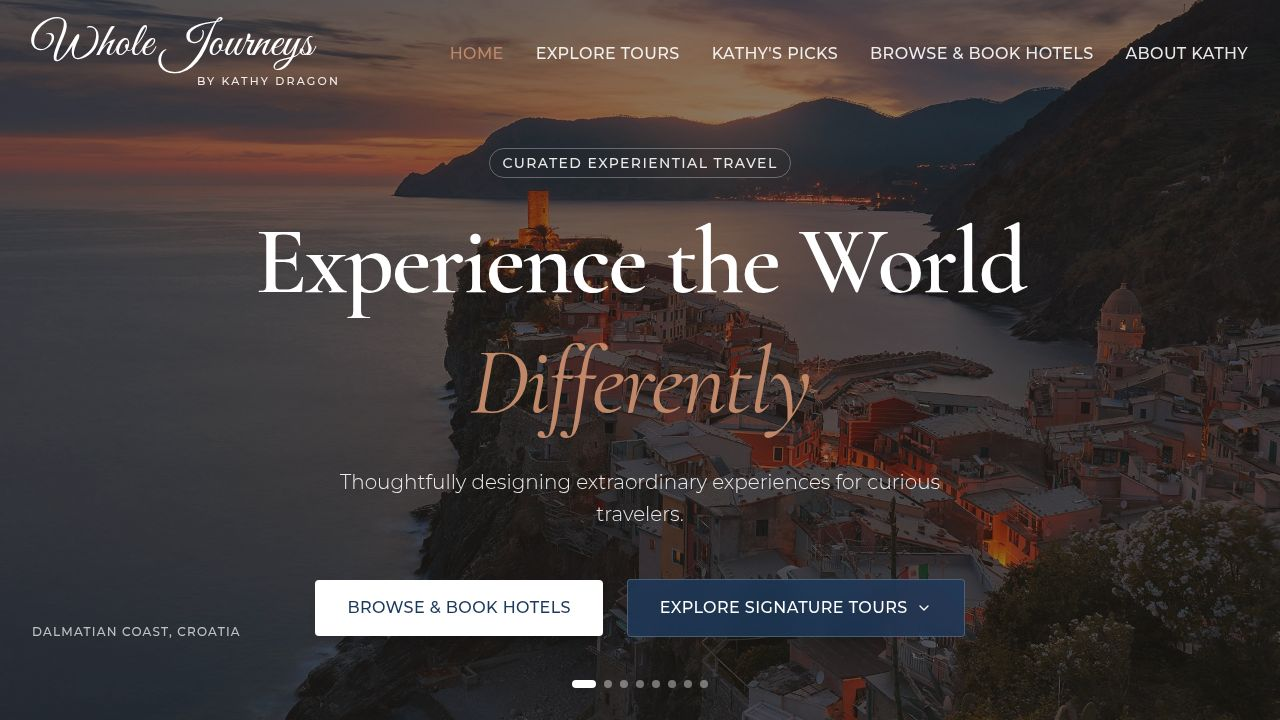
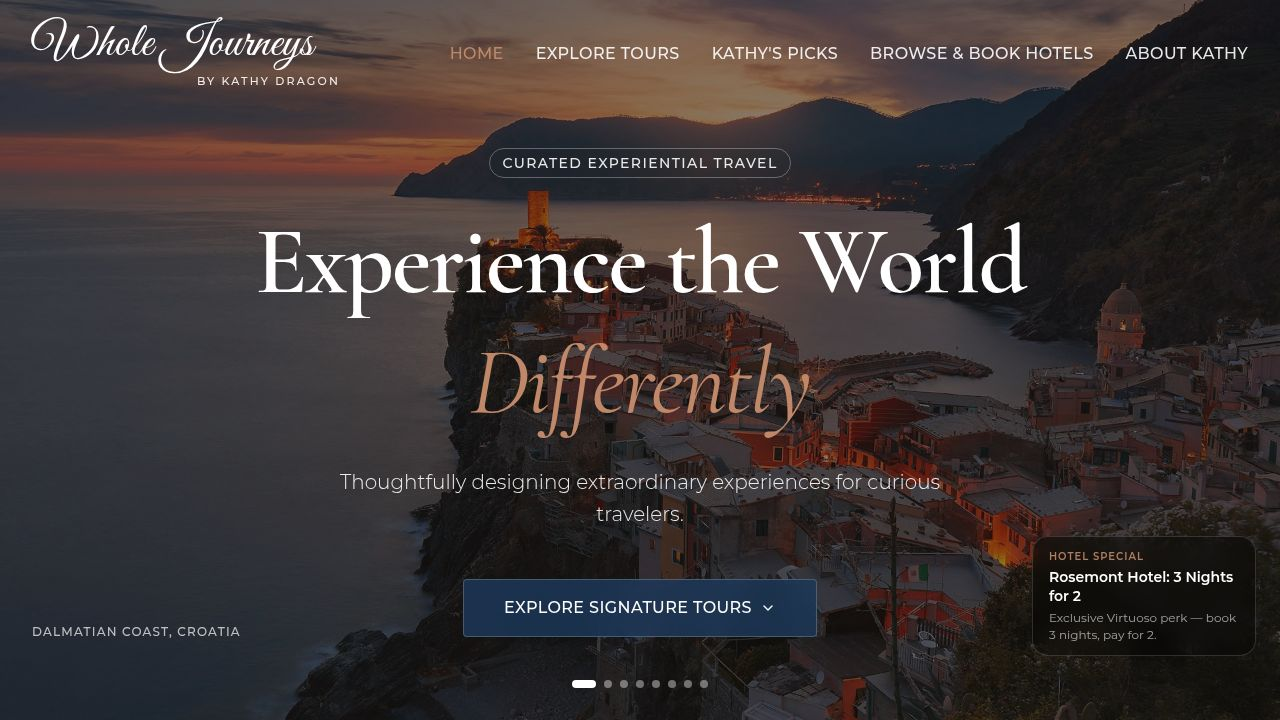
Improve website SEO and fix tour modal bugs
Implement comprehensive SEO across all pages using `react-helmet-async`, add a reusable SEO component, and fix a crash in `buildSpecialUrl` when `referralTag` is undefined.

Replit-Commit-Author: Agent
Replit-Commit-Session-Id: e470989c-778b-43b7-8b98-f9c640c0c7eb
Replit-Commit-Checkpoint-Type: full_checkpoint
Replit-Commit-Event-Id: 0cb1f29c-31b3-421b-ba65-038d27846d03
Replit-Commit-Screenshot-Url: https://storage.googleapis.com/screenshot-production-us-central1/654e29e9-1e29-43ab-9f95-6739177fc84f/e470989c-778b-43b7-8b98-f9c640c0c7eb/o0yCR8q
Replit-Helium-Checkpoint-Created: true

Changed region(s): [[0.2188, 0.7944, 0.7812, 0.8861], [0.7812, 0.7333, 0.9688, 0.9167]]

diff --git a/artifacts/whole-journeys/src/components/SEO.tsx b/artifacts/whole-journeys/src/components/SEO.tsx
@@ -1,0 +1,43 @@
+import { Helmet } from "react-helmet-async";
+
+const SITE_NAME = "Whole Journeys by Kathy Dragon";
+const SITE_URL = "https://new.wholejourneys.com";
+const DEFAULT_IMAGE = "https://images.unsplash.com/photo-1464822759023-fed622ff2c3b?w=1200&q=80";
+
+interface SEOProps {
+  title?: string;
+  description?: string;
+  image?: string;
+  path?: string;
+  noIndex?: boolean;
+}
+
+export default function SEO({ title, description, image, path = "", noIndex = false }: SEOProps) {
+  const pageTitle = title ? `${title} | ${SITE_NAME}` : SITE_NAME;
+  const pageDesc = description ?? "Thoughtfully designed extraordinary journeys for curious travelers. Signature walking tours in Europe and beyond, personally curated by Kathy Dragon.";
+  const pageImage = image || DEFAULT_IMAGE;
+  const canonical = `${SITE_URL}${path}`;
+
+  return (
+    <Helmet>
+      <title>{pageTitle}</title>
+      <meta name="description" content={pageDesc} />
+      {noIndex && <meta name="robots" content="noindex,nofollow" />}
+      <link rel="canonical" href={canonical} />
+
+      {/* Open Graph */}
+      <meta property="og:type" content="website" />
+      <meta property="og:site_name" content={SITE_NAME} />
+      <meta property="og:title" content={pageTitle} />
+      <meta property="og:description" content={pageDesc} />
+      <meta property="og:image" content={pageImage} />
+      <meta property="og:url" content={canonical} />
+
+      {/* Twitter */}
+      <meta name="twitter:card" content="summary_large_image" />
+      <meta name="twitter:title" content={pageTitle} />
+      <meta name="twitter:description" content={pageDesc} />
+      <meta name="twitter:image" content={pageImage} />
+    </Helmet>
+  );
+}

diff --git a/artifacts/whole-journeys/src/components/TourModal.tsx b/artifacts/whole-journeys/src/components/TourModal.tsx
@@ -1,5 +1,6 @@
 import { useState, useEffect, useCallback } from "react";
 import * as Dialog from "@radix-ui/react-dialog";
+import { Helmet } from "react-helmet-async";
 import { X, MapPin, Globe, Check, ExternalLink, ChevronLeft, ChevronRight } from "lucide-react";
 import { type Tour } from "@/hooks/use-tours";
 import { CATEGORY_COLORS } from "./TourCard";
@@ -106,8 +107,15 @@ export default function TourModal({ tour, isOpen, onClose }: TourModalProps) {
   const allImages = [tour.imageUrl, ...(tour.galleryImages ?? [])].filter(Boolean);
 
   return (
-    <Dialog.Root open={isOpen} onOpenChange={(open) => !open && onClose()}>
-      <Dialog.Portal>
+    <>
+      {isOpen && (
+        <Helmet>
+          <title>{tour.name} | Whole Journeys by Kathy Dragon</title>
+          <meta name="description" content={tour.description ?? `Explore the ${tour.name} journey with Whole Journeys.`} />
+        </Helmet>
+      )}
+      <Dialog.Root open={isOpen} onOpenChange={(open) => !open && onClose()}>
+        <Dialog.Portal>
         <Dialog.Overlay className="fixed inset-0 bg-black/60 backdrop-blur-sm z-[100] data-[state=open]:animate-in data-[state=closed]:animate-out data-[state=closed]:fade-out-0 data-[state=open]:fade-in-0" />
         <Dialog.Content className="fixed left-[50%] top-[50%] z-[110] grid w-full max-w-4xl translate-x-[-50%] translate-y-[-50%] gap-4 border-none bg-background shadow-2xl duration-200 data-[state=open]:animate-in data-[state=closed]:animate-out data-[state=closed]:fade-out-0 data-[state=open]:fade-in-0 data-[state=closed]:zoom-out-95 data-[state=open]:zoom-in-95 data-[state=closed]:slide-out-to-left-1/2 data-[state=closed]:slide-out-to-top-[48%] data-[state=open]:slide-in-from-left-1/2 data-[state=open]:slide-in-from-top-[48%] sm:rounded-2xl overflow-hidden max-h-[90vh] flex flex-col">
 
@@ -213,6 +221,7 @@ export default function TourModal({ tour, isOpen, onClose }: TourModalProps) {
           </div>
         </Dialog.Content>
       </Dialog.Portal>
-    </Dialog.Root>
+      </Dialog.Root>
+    </>
   );
 }

diff --git a/artifacts/whole-journeys/src/App.tsx b/artifacts/whole-journeys/src/App.tsx
@@ -1,5 +1,6 @@
 import { Switch, Route, Router as WouterRouter } from "wouter";
 import { QueryClient, QueryClientProvider } from "@tanstack/react-query";
+import { HelmetProvider } from "react-helmet-async";
 import Home from "./pages/Home";
 import Tours from "./pages/Tours";
 import About from "./pages/About";
@@ -37,11 +38,13 @@ function Router() {
 
 function App() {
   return (
-    <QueryClientProvider client={queryClient}>
-      <WouterRouter base={import.meta.env.BASE_URL.replace(/\/$/, "")}>
-        <Router />
-      </WouterRouter>
-    </QueryClientProvider>
+    <HelmetProvider>
+      <QueryClientProvider client={queryClient}>
+        <WouterRouter base={import.meta.env.BASE_URL.replace(/\/$/, "")}>
+          <Router />
+        </WouterRouter>
+      </QueryClientProvider>
+    </HelmetProvider>
   );
 }
 

diff --git a/artifacts/whole-journeys/index.html b/artifacts/whole-journeys/index.html
@@ -3,7 +3,14 @@
   <head>
     <meta charset="UTF-8" />
     <meta name="viewport" content="width=device-width, initial-scale=1.0, maximum-scale=1" />
-    <title>Whole Journeys</title>
+    <title>Whole Journeys by Kathy Dragon | Curated Experiential Travel</title>
+    <meta name="description" content="Thoughtfully designed extraordinary journeys for curious travelers. Explore signature walking tours in Europe and beyond, personally curated by Kathy Dragon." />
+    <meta property="og:type" content="website" />
+    <meta property="og:site_name" content="Whole Journeys by Kathy Dragon" />
+    <meta property="og:title" content="Whole Journeys by Kathy Dragon | Curated Experiential Travel" />
+    <meta property="og:description" content="Thoughtfully designed extraordinary journeys for curious travelers. Explore signature walking tours in Europe and beyond, personally curated by Kathy Dragon." />
+    <meta property="og:url" content="https://new.wholejourneys.com/" />
+    <meta name="twitter:card" content="summary_large_image" />
     <link rel="icon" type="image/svg+xml" href="/favicon.svg" />
     <link rel="preconnect" href="https://fonts.googleapis.com">
     <link rel="preconnect" href="https://fonts.gstatic.com" crossorigin>

diff --git a/artifacts/whole-journeys/src/pages/TermsAndConditions.tsx b/artifacts/whole-journeys/src/pages/TermsAndConditions.tsx
@@ -1,4 +1,5 @@
 import { useSiteContent } from "@/hooks/use-admin-data";
+import SEO from "@/components/SEO";
 import Navbar from "@/components/Navbar";
 import Footer from "@/components/Footer";
 
@@ -8,6 +9,12 @@ export default function TermsAndConditions() {
 
   return (
     <div className="min-h-screen flex flex-col bg-background">
+      <SEO
+        title="Terms & Conditions"
+        description="Terms and conditions for Whole Journeys by Kathy Dragon."
+        path="/terms"
+        noIndex={true}
+      />
       <Navbar />
       <main className="flex-1 pt-32 pb-20">
         <div className="max-w-3xl mx-auto px-4 sm:px-6 lg:px-8">

diff --git a/artifacts/whole-journeys/src/pages/TripInquiry.tsx b/artifacts/whole-journeys/src/pages/TripInquiry.tsx
@@ -1,4 +1,5 @@
 import { useEffect, useRef } from "react";
+import SEO from "@/components/SEO";
 import { useSiteContent } from "@/hooks/use-admin-data";
 import Navbar from "@/components/Navbar";
 import Footer from "@/components/Footer";
@@ -43,6 +44,12 @@ export default function TripInquiry() {
 
   return (
     <div className="min-h-screen flex flex-col bg-background">
+      <SEO
+        title="Plan Your Journey"
+        description="Ready to travel? Tell Kathy Dragon about your dream trip and she'll personally design an extraordinary journey tailored just for you."
+        path="/inquiry"
+        noIndex={false}
+      />
       <Navbar />
       <main className="flex-1 pt-32 pb-20">
         <div className="max-w-3xl mx-auto px-4 sm:px-6 lg:px-8">

diff --git a/artifacts/whole-journeys/src/pages/About.tsx b/artifacts/whole-journeys/src/pages/About.tsx
@@ -1,4 +1,5 @@
 import { useState, useEffect } from "react";
+import SEO from "@/components/SEO";
 import Navbar from "@/components/Navbar";
 import Footer from "@/components/Footer";
 import { Leaf, Globe, HeartHandshake } from "lucide-react";
@@ -61,6 +62,11 @@ export default function About() {
 
   return (
     <div className="min-h-screen flex flex-col bg-background">
+      <SEO
+        title="About Kathy Dragon"
+        description="Meet Kathy Dragon — independent travel advisor and Virtuoso member with decades of experience designing extraordinary, immersive journeys for curious travelers worldwide."
+        path="/about"
+      />
       <Navbar />
 
       {/* Kathy Quote — top of page */}

diff --git a/artifacts/whole-journeys/src/pages/Home.tsx b/artifacts/whole-journeys/src/pages/Home.tsx
@@ -1,5 +1,6 @@
 import { useState, useEffect } from "react";
 import { Link } from "wouter";
+import SEO from "@/components/SEO";
 import { motion, AnimatePresence } from "framer-motion";
 import { ArrowRight, ChevronDown, Compass, Globe, Shield } from "lucide-react";
 import Navbar from "@/components/Navbar";
@@ -72,6 +73,11 @@ export default function Home() {
 
   return (
     <div className="min-h-screen flex flex-col">
+      <SEO
+        title="Curated Experiential Travel"
+        description="Thoughtfully designed extraordinary journeys for curious travelers. Explore signature walking tours in Europe and beyond, personally curated by Kathy Dragon — independent travel advisor and Virtuoso member."
+        path="/"
+      />
       <Navbar />
 
       {/* HERO SECTION */}

diff --git a/artifacts/whole-journeys/src/pages/Hotels.tsx b/artifacts/whole-journeys/src/pages/Hotels.tsx
@@ -1,4 +1,5 @@
 import { motion } from "framer-motion";
+import SEO from "@/components/SEO";
 import { ExternalLink, Star, Gift, Coffee, ArrowUpRight, CreditCard, Clock, CheckCircle2 } from "lucide-react";
 import Navbar from "@/components/Navbar";
 import Footer from "@/components/Footer";
@@ -66,6 +67,11 @@ export default function Hotels() {
 
   return (
     <div className="min-h-screen flex flex-col bg-background">
+      <SEO
+        title="Browse & Book Hotels"
+        description="Discover and book boutique hotels and luxury properties handpicked by Kathy Dragon. Access exclusive Virtuoso perks — complimentary breakfasts, upgrades, and amenities unavailable anywhere else."
+        path="/hotels"
+      />
       <Navbar />
 
       {/* HERO */}

diff --git a/artifacts/whole-journeys/src/pages/Picks.tsx b/artifacts/whole-journeys/src/pages/Picks.tsx
@@ -1,4 +1,5 @@
 import { useState } from "react";
+import SEO from "@/components/SEO";
 import { ExternalLink, BookOpen, Hotel, Map, ArrowRight } from "lucide-react";
 import Navbar from "@/components/Navbar";
 import Footer from "@/components/Footer";
@@ -119,6 +120,11 @@ export default function Picks() {
 
   return (
     <div className="min-h-screen flex flex-col bg-background">
+      <SEO
+        title="Kathy's Picks"
+        description="Kathy Dragon's personal recommendations — handpicked tours, boutique hotels, and travel reads she loves and trusts. Curated for curious, discerning travelers."
+        path="/picks"
+      />
       <Navbar />
 
       {/* Header */}

diff --git a/artifacts/whole-journeys/src/pages/Tours.tsx b/artifacts/whole-journeys/src/pages/Tours.tsx
@@ -1,4 +1,5 @@
 import { useState, useMemo } from "react";
+import SEO from "@/components/SEO";
 import { Search, X } from "lucide-react";
 import Navbar from "@/components/Navbar";
 import Footer from "@/components/Footer";
@@ -105,6 +106,11 @@ export default function Tours() {
 
   return (
     <div className="min-h-screen flex flex-col bg-background">
+      <SEO
+        title="Explore Signature Tours"
+        description="Browse signature walking and cultural tours through France, Italy, Croatia, Spain, and beyond. Small groups and private departures, personally designed by Kathy Dragon."
+        path="/tours"
+      />
       <Navbar />
 
       {/* Header */}

diff --git a/artifacts/whole-journeys/src/hooks/use-specials.ts b/artifacts/whole-journeys/src/hooks/use-specials.ts
@@ -16,9 +16,9 @@ export interface FeaturedSpecial {
 }
 
 /** Appends referralTag query params to a URL, handling existing ? correctly. */
-export function buildSpecialUrl(linkUrl: string, referralTag: string): string {
+export function buildSpecialUrl(linkUrl: string, referralTag?: string | null): string {
   if (!linkUrl) return "#";
-  if (!referralTag.trim()) return linkUrl;
+  if (!referralTag?.trim()) return linkUrl;
   const sep = linkUrl.includes("?") ? "&" : "?";
   return `${linkUrl}${sep}${referralTag.trim()}`;
 }